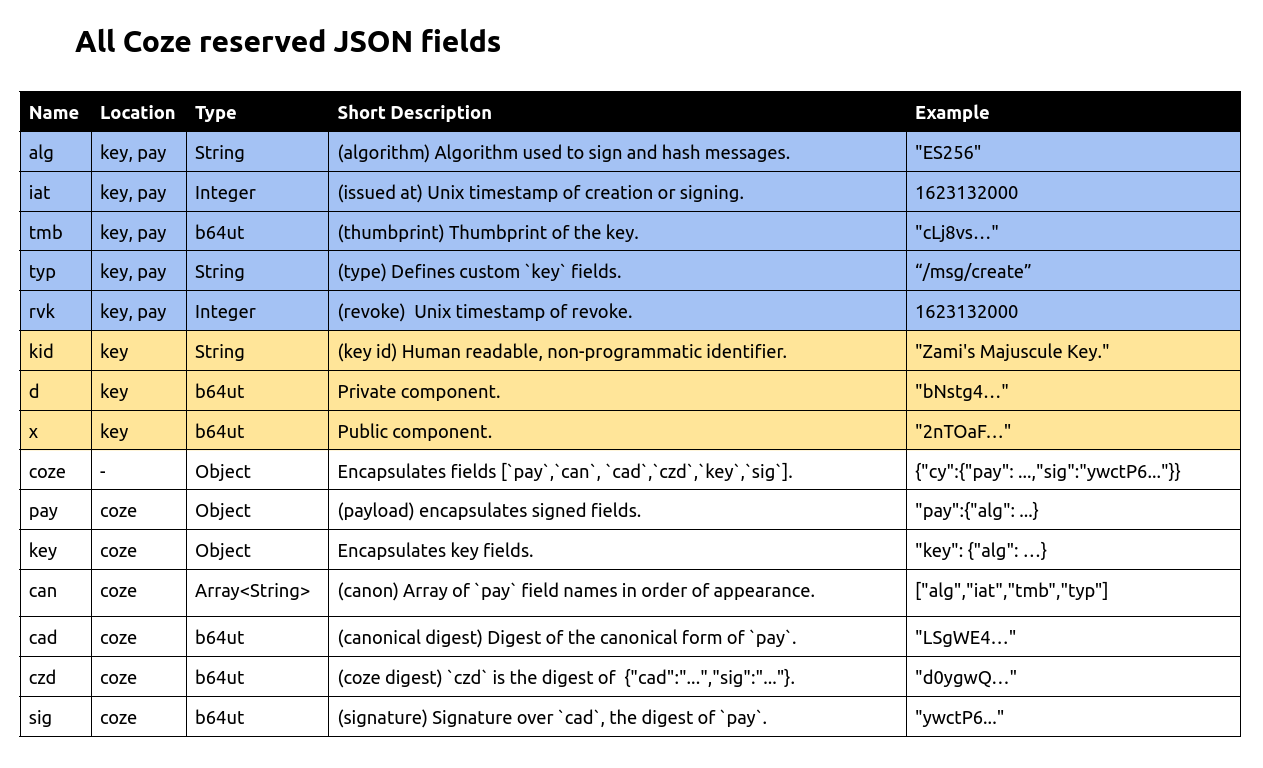
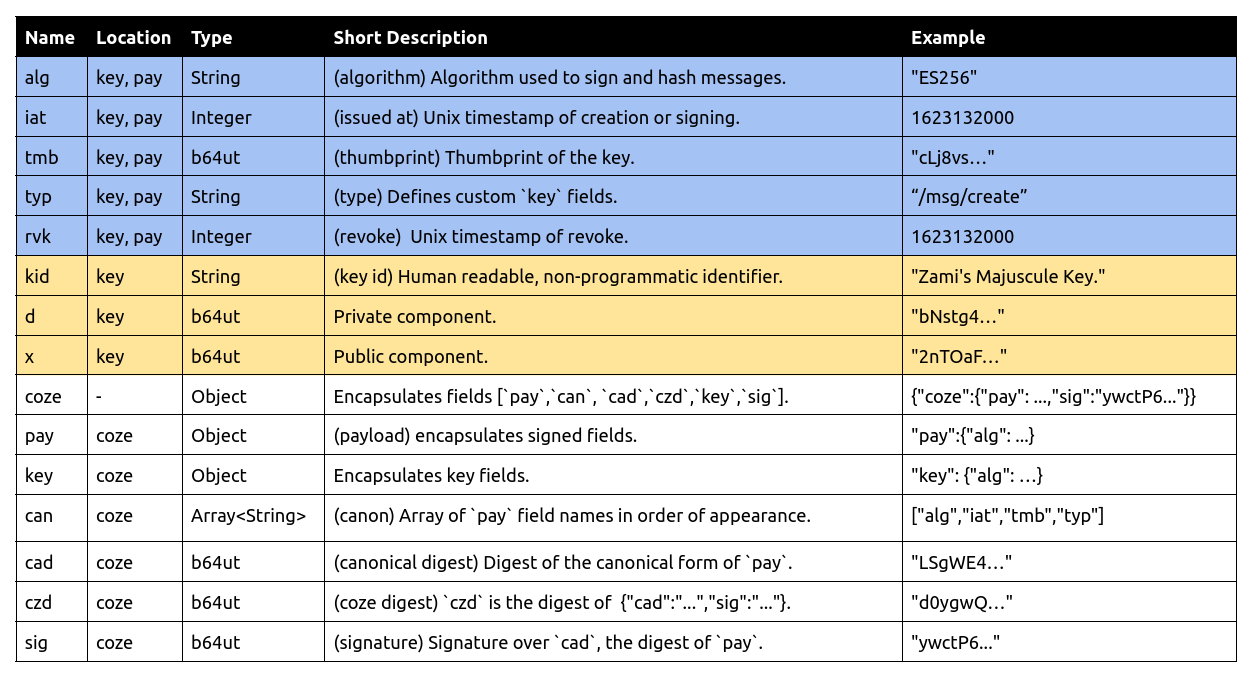
revised README, fix typo in field name table, add support_bls

diff --git a/README.md b/README.md
@@ -23,7 +23,7 @@ Play with Coze here: https://cyphr.me/coze_verifier
 		"tmb": "cLj8vsYtMBwYkzoFVZHBZo6SNL8wSdCIjCKAwXNuhOk",
 		"typ": "cyphr.me/msg"
 	},
-	"sig": "ywctP6lEQ_HcYLhgpoecqhFrqNpBSyNPuAPOV94SThuztJek7x7H9mXFD0xTrlmQPg_WC7jwg70nzNoGn70JyA"
+	"sig": "Dmmv5PeyD3xs-9XcZu_DrpMXf2TL6BXPhP7ARI0xoHoGnus4nkS9aW4n6e1HVcoiOCHUsaDnDySylG5XAN13oQ"
 }
 ```
 
@@ -43,6 +43,7 @@ applications.  Binary values are encoded as RFC 4648 base64 URI with padding
 omitted.  The Coze objects `pay`, `key`, and `coze` have respective reserved
 fields.
 
+#### All Coze Reserved Field Names
 ![Coze Reserved Fields](docs/img/coze_reserved_fields.png)
 
 ## Pay
@@ -117,7 +118,7 @@ recalculatable and are recommended to be omitted, although they may be useful
 for reference.  
 
 
-## Coze Labels
+## Coze
 The JSON name `coze` may be used to wrap Coze objects.  For example:
 
 ```JSON
@@ -139,10 +140,10 @@ It is recommend to not needlessly wrap Coze objects with labels. For example,
 the JSON object `{"pay":{...},"sig":...}` doesn't need the labeled `coze` if
 implicitly known by applications.
 
-The following coze expands the first example by adding the labels `key`, `can`,
-`cad`, and `czd` that should generally be omitted unless needed by applications.
-`key` may be looked up by applications by using `tmb`, `can`, `cad`, and `czd`
-are recalculatable, and the label `coze` may be inferred.  
+The following adds `key`, `can`, `cad`, and `czd` that should generally be
+omitted unless needed by applications. `key` may be looked up by applications by
+using `tmb`, `can`, `cad`, and `czd` are recalculatable, and the label `coze`
+may be inferred.  
 
 The tautological coze
 
@@ -235,33 +236,33 @@ Using the first example, the following canonical digests are calculated:
 
 
 ### Coze and Binaries
-The canonical digest of binary files may simply be the digest of the file. The
+The canonical digest of a binary file may simply be the digest of the file. The
 hashing algorithm and any other metadata may be denoted by an accompanying coze.
-For example, an image ("Hello_World!.gif") may be referred to in a JSON object
-by its digest. 
+For example, an image ("coze_logo_icon_256.png") may be referred to by its
+digest. 
 
 ```JSON
 {
 	"alg":"SHA-256",
-	"file_name":"Hello_World!.gif",
-	"image":"rVOyJ144KwIQ3V2YJdatKAo_3QWAY4CpGLCDdnKOvAw"
+	"file_name":"coze_logo_icon_256.png",
+	"id":"oDBDAg4xplHQby6iQ2lZMS1Jz4Op0bNoD5LK3KxEUZo"
 }
 ```
 
-For example, including a file's digest in a signed message, denoted by `id`, may
-represent the authorization to upload a file to a user's account:
+For example, a file's digest, denoted here by `id`, may represent the
+authorization to upload a file to a user's account:
 
 ```JSON
 {
 	"pay": {
 		"alg": "ES256",
-		"file_name": "Hello_World!.gif",
+		"file_name": "coze_logo_icon_256.png",
+		"id": "oDBDAg4xplHQby6iQ2lZMS1Jz4Op0bNoD5LK3KxEUZo",
 		"iat": 1627518000,
-		"id": "rVOyJ144KwIQ3V2YJdatKAo_3QWAY4CpGLCDdnKOvAw",
 		"tmb": "cLj8vsYtMBwYkzoFVZHBZo6SNL8wSdCIjCKAwXNuhOk",
 		"typ": "cyphr.me/file/create"
 	},
-	"sig": "kyhjObuf7c9eSrAY5r9j7CtVq9eNemp7IMdlajEMjOkM8L1Yv-YRqwcaQbth3nNYasV0H-K5x3IOaADz1CVJiQ"
+	"sig": "TcpnA4wPV3QUl1XWNfbey5cLkO2qHXGxnfEOI0BSic3J__Tr5TPL1In2yBmL8ZWhvFMOS11o1fm802K20OpQyw"
 }
 ```
 
@@ -276,14 +277,14 @@ revocation is the suggested value for `rvk`.
 ```JSON
 {
 	"pay": {
-		"alg": "ES256",
+	"alg": "ES256",
 		"iat": 1627518000,
-		"msg": "Posted my private key on github",
+		"msg": "Posted my private key online",
 		"rvk": 1627518000,
 		"tmb": "cLj8vsYtMBwYkzoFVZHBZo6SNL8wSdCIjCKAwXNuhOk",
 		"typ": "cyphr.me/key/revoke"
 	},
-	"sig": "wJqheKPx5QRz4Xewntvr_1i9aoVhSAsIihzU7j6jgqf3HcQzLAl0dAAEZVOJ85enPyLAZnRYRQ62RHr_3xYBDQ"
+	"sig": "6PHU4HM6CLFe6JULchXKFtXrGD_fn_U26ef99tXfOlFRGATHFy_XRpfG6lQM3D0DfTnskPvA4jpVUqie6FuFuA"
 }
 ```
 
@@ -293,10 +294,11 @@ Coze explicitly defines a self-revoke method so that third parties may revoke
 leaked keys. Systems storing Coze keys should provide an interface permitting a
 given Coze key to be mark as revoked by receiving a self-revoke message.
 Self-revokes with future times must immediately be considered as revoked.  Coze
-suggests rvk to be a 32-bit unsigned integer with a maximum value of
-4,294,967,295.
+requires `rvk` to be an integer with a maximum value of 9,007,199,254,740,991
+(2^53 – 1), which is Javascript's `MAX_SAFE_INTEGER`.
 
-Key expiration policies, such as key rotation, are outside the scope of Coze.
+Key expiration policies, key rotation, and alternative revocation methods are
+outside the scope of Coze.
 
 
 ## Supported Algorithms 
@@ -354,16 +356,13 @@ messaging standard.
 
 Jared suggested Coze because it looks like JOSE or COSE but it's funnier.
 
-
 #### "Coze" vs "coze"?
 We use upper case "Coze" to refer to the specification, and "coze" to refer to
 coze messages and objects.
 
-
 #### Why release pre-alpha on 2021/06/08?
 Coze was released on 2021/06/08 (1623132000) since it's 30 years and one day
 after the initial release of PGP 1.0.
-
 
 #### Zero case
 If `alg` and `tmb` are implicitly known, a zero case is legitimate. The
@@ -376,70 +375,47 @@ following is a valid coze.
 }
 ```
 
-#### Unicode/UTF-8?
-Yes.  Unicode is a superset of ASCII and UTF-8 shares sorting order with
-Unicode.  This results in broad, out of the box compatibility. Not that UTF-16
-(Javascript) has some code points out of order. For these systems, a small
-amount of additional logic is needed to correct the sort order.
+#### Unicode/UTF-8/Ordering?
+Although JSON was designed in a Javascript (UTF-16) context, the latest JSON RFC
+requires UTF-8 encoding, since everyone was already using UTF-8.  Unicode is a
+superset of ASCII and UTF-8 shares sorting order with Unicode. This results in
+broad, out of the box compatibility. Object field order may be denoted by a
+canon,  chaining normal, or communicate ordering via other means.  
+
+Note that UTF-16 (Javascript) has some code points out of order. For these
+systems, a small amount of additional logic is needed to correct the sort order.
 
 #### Binary? Why not support binary payloads like JOSE?
 JSON isn't well designed for binary.  Coze uses digests which we feel is an
 acceptable compromise.  A binary file's digest is easily included in a coze,
-while the binary itself should be transported outside of the coze. 
+while the binary itself should be transported outside of the coze. See the
+binary example above.  There's nothing stopping an application from base64
+encoding a binary for transporting, although its not recommend.  
 
-For example,  the digest of an image may be included in a coze.  The field `id`
-below is the digest of an image. The coze includes other metadata.  
-
-```JSON
-{
- "pay": {
-  "alg": "ES256",
-  "ext": "png",
-  "iat": 1627518000,
-  "id": "u482klvQqr44ijrQ8SD46A0k7YhxJBVUeYtjtV6oEVw",
-  "tmb": "cLj8vsYtMBwYkzoFVZHBZo6SNL8wSdCIjCKAwXNuhOk",
-  "typ": "cyphr.me/ac/image/create"
- },
- "sig": "UyzhGF3XVmFAP41hAUM2_OJClQxJtcniUq7aSor_0AYWLvabyRRbgZPTKAgBFyxIXsCU00-N9kpX4HZGAVbKwg"
-}
-```
-
-This all said, there's nothing stopping an application from base64 encoding a
-binary and transporting it that way, although we'd recommend against it.  
+#### Why is Coze's scope so limited?
+Coze is intentionally scope limited.  It is easier to extend a limited standard
+than to fix a large standard. Coze can be extended and customized for individual
+applications. 
 
 #### Is Coze versioned?
-`alg` refers to a specific set of parameters for all operations.  If a parameter
-needs changing, like switching out a hashing algorithm, `alg` must reflect that
-change.  
+`alg` refers to a specific set of parameters for all operations.  If an
+operation needs a different parameter, like a different hashing algorithm, `alg`
+itself will be different.
 
 Our hope is "Coze Core" stays simple and stable enough to preclude versioning.
 Instead, Coze Core "versioning" will be accomplished by noting specific
-algorithm support.  
-
-Versioning by feature also permits Coze implementations to support a subset of
-features while remaining Coze compliant.  In this way libraries may remain
-spartan and avoid feature bloat.
-
-Further expansions on Coze may be included in "Coze Standard".  Further draft,
-proposals, and extended algorithm support are planned in "Coze Experimental".
-
+algorithm support.  Versioning by feature permits Coze implementations to
+support a subset of features while remaining Coze compliant.  In this way
+libraries may remain spartan and avoid feature bloat. Further expansions on Coze
+may be included in "Coze Standard".  Further draft, proposals, and extended
+algorithm support are planned in "Coze Experimental".
 
 #### How can my API do versioning?
 API versioning may be handled an application however desired.  A suggested way
 of incorporating API versioning in Coze is to use `typ`, e.g.
 `cyphr.me/v1/msg/create`, where v1 is the api version.
 
-
-#### Why `pay` and not `head`, `payload`, or `body`?
-`pay` is short and denotes inclusion of all fields that are cryptographically
-signed.  
-
-Excluding digests, Coze explicitly recommends against including binaries
-in JSON messages. A minor concern was that "payload"/"pay" may denote including
-arbitrary binary values.
-
-
-#### Why does `pay` have  cryptographic components?
+#### Why does `pay` have cryptographic components?
 Coze's `pay` includes all payload information, a design we've dubbed a "fat
 payload".  We consider single pass hashing critical for Coze's simple design.
 
@@ -452,40 +428,23 @@ label `"pay"` may then be inferred, `{...}`.  `{...}` is better than
 Verifying a coze already requires hashing `pay`.  Parsing `alg` from `pay` is a
 small additional cost.  
 
-
 #### Can my application use Canon/Canonicalization?
-Applications may find it useful to have messages in a specific normalized form.
-Core Coze has canonicalization features that may be used, or for more expressive
-capabilities, see Normal in Coze Standard.  
-
 Canon may be implicitly known by applications, implicitly derived by "typ", or
 explicitly specified by `can`. Applications may specify canon expectations in
 API documentation.  If a message is malformed, applications must error. 
 
-#### I need to keep my JSON separate from Coze.  
-We suggest encapsulating your JSON in "~", the last ASCII character.  We've
-dubbed this a "tilde encapsulated payload". For example: 
+Applications may find it useful to have messages in a specific normalized form.
+Core Coze has canonicalization features, or for more expressive capabilities,
+see Normal in Coze Standard.  
 
-```json
 
-  "alg": "ES256",
-  "iat": 1627518000,
-  "tmb": "cLj8vsYtMBwYkzoFVZHBZo6SNL8wSdCIjCKAwXNuhOk",
-  "typ": "cyphr.me/msg/create",
-  "~": {
-   "msg": "tilde encapsulated payload"
-  }
-}
- ```
 
 #### `key.typ` vs `pay.typ`. 
-For signed objects `typ` may be used to denote a canon.  For example, a `typ`
-with value `cyphr.me/create/msg` has a canon of ["alg", "iat", "msg", "tmb",
-"typ"], as defined by the service.  
-
-For `tmb` canonical form, `typ` is ignored and a static canon is used. Like
-`typ` in `pay`,  `typ` in `key` may be used to specify custom application
-fields, e.g. "first_seen" or "account_id".  
+For `pay`, `typ` may be used to denote a canon.  For example, a `typ` with value
+`cyphr.me/create/msg` has a canon of ["alg", "iat", "msg", "tmb", "typ"], as
+defined by the service.  For `key`'s canonical form, `typ` is ignored and a
+static canon is used. Like `typ` in `pay`, `typ` in `key` may be used to specify
+custom application fields, e.g. "first_seen" or "account_id". 
 
 #### ECDSA `x` and `sig` Bytes
 For ECDSA , (X and Y) and (R and S) are concatenated for `x` and `sig`
@@ -498,7 +457,7 @@ before signing while Go's ECDSA expects a digest to sign. This means that in
 Javascript messages must be passed for signing, while in Go only a digest is
 needed.  
 
-See docs/developement.md for the Go development guide.
+See `docs/developement.md` for the Go development guide.
 
 #### Why not PGP/OpenSSL/LibreSSL/libsodium/JOSE/COSE/etc...?
 We have a lot of respect for existing projects. They're great at what they do.
@@ -507,28 +466,33 @@ by many ideas and standards.
  
 See the `coze_vs..md` document for more. 
 
-
 #### Does Coze have checksums?
-For keys, the field `tmb` can the function of a checksum as it is the digest
-over `alg` and the key's public components (such as `x` and `y`).  When given a
-new public key, systems storing keys can recalculate `tmb`, compare the given
-value, and error if values do not match. Alternatively, systems can verify a
-signed message with the key.
-
-For messages, `cad`, `czd`, or cryptographic verification may serve the function
-of checksums.  
+For keys, `tmb`, and for messages, `cad` and `czd`, may be used as checksums.
+When given a new public key, systems storing keys may recalculate `tmb`, compare
+given values, and error on mismatch. Alternatively, systems may used
+cryptographic verification to serve the function of checksumming.
 
 #### Performance hacks?
 Coze is not optimized for long messages, but if early knowledge of Coze standard
 fields is critical for application performance, put the Coze standard fields
 first, e.g. `{"alg", "tmb", ...}`
 
+#### I need to keep my JSON separate from Coze.  
+If appending custom fields after the standard Coze fields isn't sufficient, we
+suggest encapsulating custom JSON in "~", the last ASCII character.  We've
+dubbed this a "tilde encapsulated payload". For example: 
 
-#### Why is Coze's scope so limited?
-Coze is intentionally scope limited.  It is easier to extend a limited standard
-than to fix a large standard. Coze can be extended and customized for individual
-applications. 
-
+```json
+{
+	"alg": "ES256",
+	"iat": 1627518000,
+	"tmb": "cLj8vsYtMBwYkzoFVZHBZo6SNL8wSdCIjCKAwXNuhOk",
+	"typ": "cyphr.me/msg/create",
+	"~": {
+		"msg": "tilde encapsulated payload"
+	}
+}
+```
 
 #### Where does the cryptography come from?
 Much of this comes from NIST FIPS (See https://csrc.nist.gov/publications/fips)
@@ -557,12 +521,13 @@ thumbprint.  Associating thumbprints to issuers is the design we recommend.
 #### Why are duplicate field names prohibited?
 Coze explicitly requires that implementations disallow duplicate JSON names in
 `coze`, `pay`, and `key`.  Douglas Crockford's Java implementation of JSON
-errors on duplicate names. Other implementations use last-value-wins, and a few
-support duplicate keys.  The [JSON
+errors on duplicate names. Other implementations use `last-value-wins`, and a
+few support duplicate keys.  The [JSON
 RFC](https://datatracker.ietf.org/doc/html/rfc8259#section-4) states that
-implementations should not allow duplicate keys, notes the varying behavior of
-existing implementations, and states that when names are not unique, "the
-behavior of software that receives such an object is unpredictable."  
+implementations **should not** allow duplicate keys, notes the varying behavior
+of existing implementations, and states that when names are not unique, "the
+behavior of software that receives such an object is unpredictable."  Also note
+that Javascript objects and Go structs already require unique names.
 
 Duplicate fields is a security issue.  If multiple fields were allowed, for
 example for `alg`, `tmb`, or `rvk`, this could be a source of bugs in
@@ -570,18 +535,13 @@ implementations and surprising behavior to users. See the article, "[An
 Exploration of JSON Interoperability
 Vulnerabilities](https://bishopfox.com/blog/json-interoperability-vulnerabilities)"
 
-Javascript objects and Go structs already require unique names.  Since Coze
-normalization requires implementations support ordered objects, and prohibiting
-duplicates isn't much more complexity.  
-
 #### JSON Name, Key, Field Name, Member Name?
 They're all synonyms.  A JSON name is a JSON key is a JSON field name is a JSON
 member name.  In this document we use "field name" to avoid confusion with Coze
-key.  The RFC prefers the terms name/member name, we prefer the term key
-
+key.
 
 #### Cryptographic Agility?
-The moral is the need for cryptographic agility. It’s not enough to implement a
+>The moral is the need for cryptographic agility. It’s not enough to implement a
 single standard; it’s vital that our systems be able to easily swap in new
 algorithms when required. We’ve learned the hard way how algorithms can get so
 entrenched in systems that it can take many years to update them: in the
@@ -603,8 +563,10 @@ See also I-JSON
 #### Who created Coze?
 Coze was created by Cyphr.me.  
 
-#### Discussion?
+#### Discussion?  Social Media?
 https://old.reddit.com/r/CozeJson
+
+https://twitter.com/CozeJSON
 
 PM zamicol for our telegram group.  
 

diff --git a/docs/support_bls.md b/docs/support_bls.md
@@ -1,0 +1,3 @@
+There is a Go bls package: https://pkg.go.dev/github.com/dedis/kyber/sign/bls
+
+Background: https://medium.com/cryptoadvance/bls-signatures-better-than-schnorr-5a7fe30ea716
